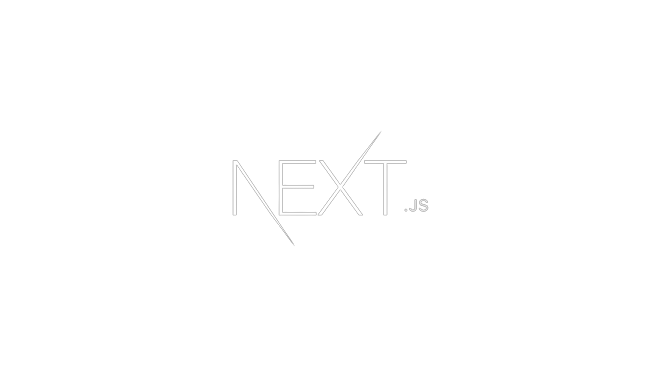
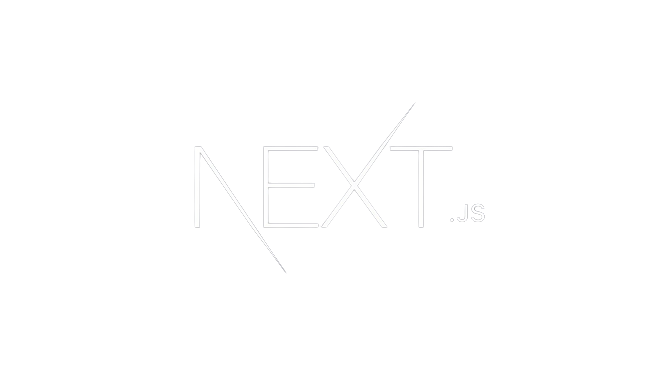
Fix nextjs image

diff --git a/components/sections/technologies/index.tsx b/components/sections/technologies/index.tsx
@@ -21,7 +21,7 @@ const Technologies = () => {
         {/* react, nextjs, tailwind */}
         <div className="grid grid-flow-col lg:justify-center lg:gap-24 items-center">
           <Techonology image="/images/react.svg.png" title="React"  style="w-24 h-20 lg:w-[180px] lg:h-[160px]" />
-          <Techonology image="/images/nextjs.png" title="NextJs" style="w-32 h-20 lg:w-[450px] lg:h-[250px]" />
+          <Techonology image="/images/nextjs.png" title="NextJs" style="w-48 h-24 lg:w-[500px] lg:h-[280px]" />
           <Techonology image="/images/tailwind.svg.png" title="TailwindCSS" style="w-20 h-20 lg:w-[160px] lg:h-[160px]" />
         </div>
 
